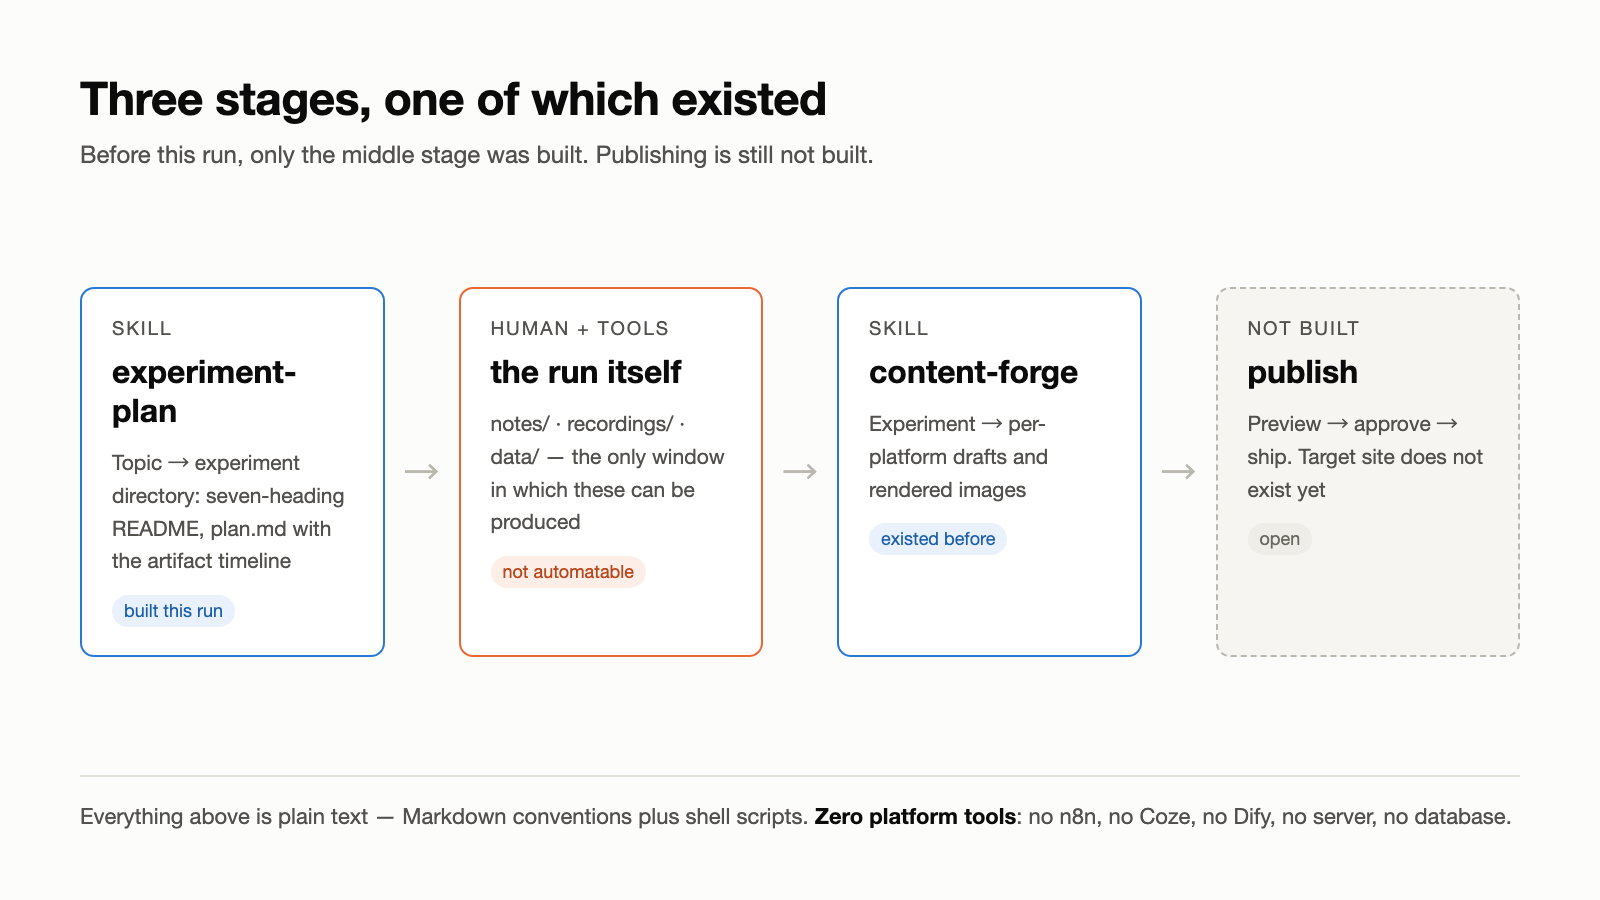
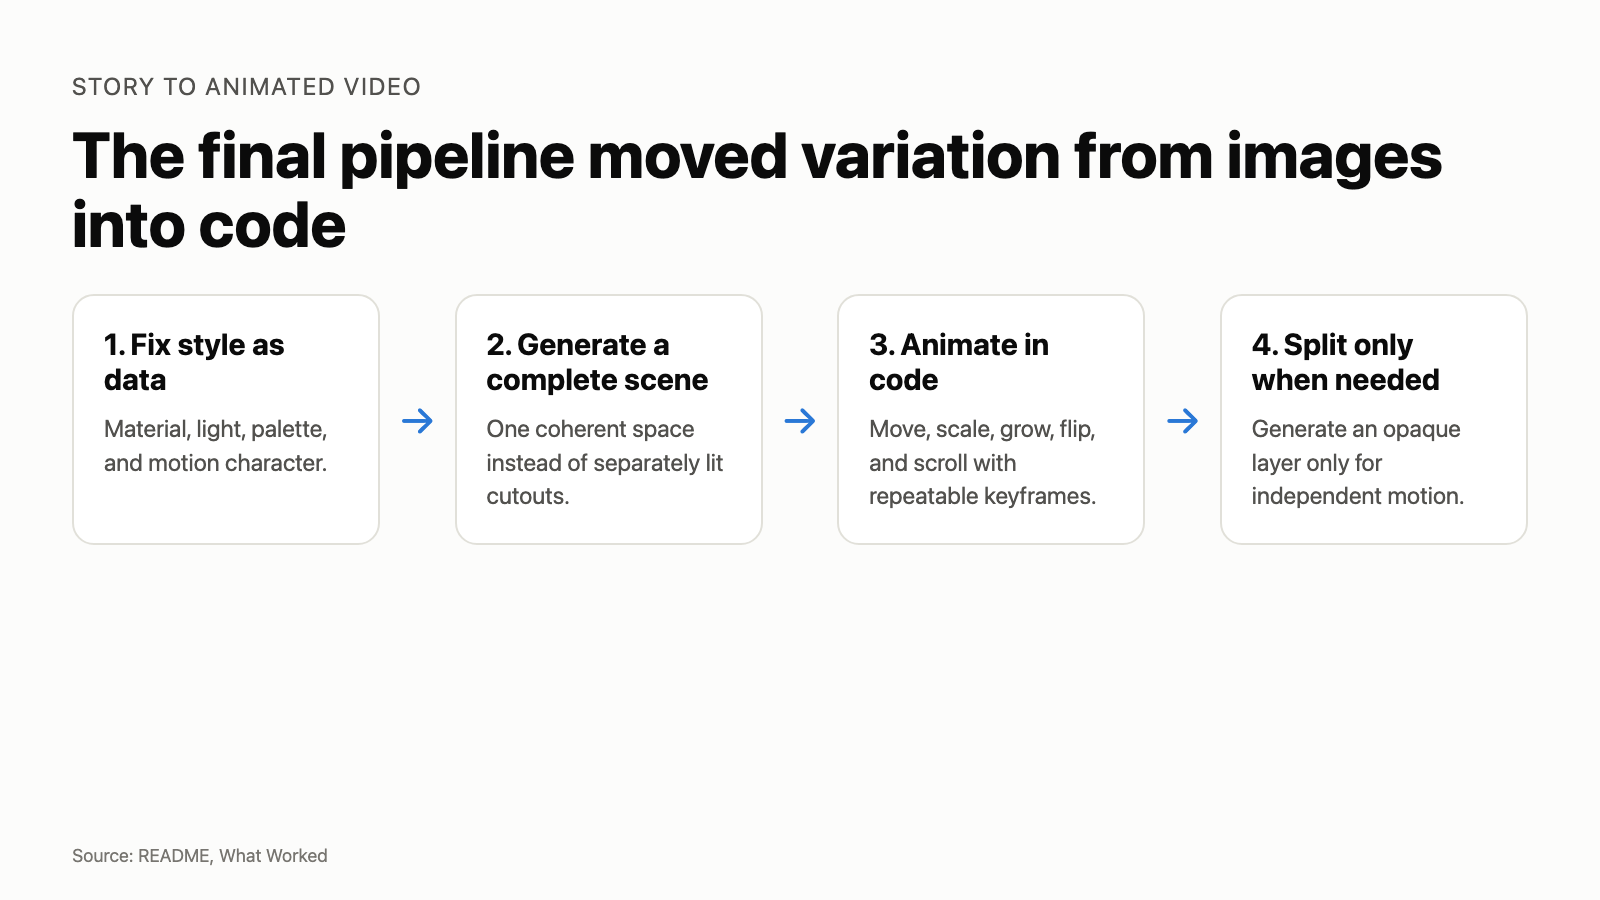
Publish site draft from silicon-leap-lab

diff --git a/src/content/experiments/en/2026-08-story-to-animated-video.md b/src/content/experiments/en/2026-08-story-to-animated-video.md
@@ -1,0 +1,134 @@
+---
+title: "AI Can Make the Video. It Still Cannot Decide What the Video Should Be"
+question: "The previous experiment had already tried to turn text into video. It produced a 4 minute 24 second sequence of screenshots and static cards. The file existed, but the result did not qualify as animation or as something I wanted to publish."
+date: 2026-09-02
+tags: ["AI video generation", "code-generated animation", "human-in-the-loop", "story to video", "Claude Code"]
+description: "One pipeline produced a software-experiment film and an original fairy tale. The final assembly became largely automatic, but 119 discarded images and a week of revision exposed where human judgment still dominates."
+---
+
+This experiment fills the missing step in a content pipeline: turning a written story into illustrated animation. The test was not about editing supplied footage. It asked whether a project or story could still be shown when there was no storyboard, footage, or prepared art.
+
+The previous experiment could turn a completed experiment record into drafts for a site, GitHub, WeChat, Xiaohongshu, and YouTube. Video was the missing channel. Its last video was a 4 minute 24 second sequence of screenshots, cards, and narration. It played, but it read the article aloud, so I did not publish it.
+
+This time I used one final approach to make two films. Film A is an animated account of the earlier experiment about turning completed experiment records into multi-platform content. Film B is the original fairy tale *The Last Light*, which began as text alone. Both films were completed. Film A still went through three rebuilds after it passed its technical checks.
+
+This is for a specific situation, not a claim about everyone: someone has a project or a story worth showing, but no footage, illustration, or editing material. Here, **AI video generation** means generated illustrations assembled and animated in code, not a video-diffusion model. **Human-in-the-loop** means a person still chooses the story, visual direction, and whether a cut should be rejected.
+
+## It passed the checks and still did not tell the story
+
+Film A passed its first checks early. Nothing had obviously broken: it was 186 seconds long, its longest frozen stretch was 4.67 seconds, and the renderer found no QA failures. But when I watched it, I could not say what it was trying to show. The narration described an experiment; the pictures showed turning gears and floating cards. It was a video file, not yet a visual story.
+
+## Three rebuilds changed the route, not the prompt
+
+The first route was simple: **choose a topic → generate background and subject icons → split scenes → assemble a video**. It looked plausible, but three versions produced mismatched light, broken cutouts, and sticker-like composites. The route that finally worked was: **choose a topic → split it into narrative scenes → give each narration segment a picture → fix a visual style → generate complete scenes → add an independent layer only when something must move separately → animate in code → derive timing from the finished narration → assemble and run QA**.
+
+The renderer behind that second route is called `editorial-video`. It turns an approved script and scene plan into shots where code controls when elements move, scale, or change. It is still a work-in-progress production toolchain, not a product this article asks readers to install. A complete scene is its default because it keeps light and materials coherent; a separate transparent-background layer is added only for independent motion. That distinction came directly from the failed first route.
+
+The run took about 19 hours across both films, including a discarded Film B and three Film A rebuilds. That is not 19 hours of rendering. It includes comparing approaches, adapting the pipeline, revising narration and scene beats, generating and rejecting images, rendering, and review. The final API bill was CNY 29.27. The longer cost was deciding what a shot should show and rejecting work that was technically valid but wrong.
+
+![The final pipeline moves from narration to complete scenes, then adds code-controlled motion.](assets/01-pipeline.png)
+*Figure 1. The final pipeline used complete generated scenes and code-controlled movement. Source: this experiment's README and artifacts.*
+
+## The question
+
+The previous experiment had already tried to turn text into video. It produced a 4 minute 24 second sequence of screenshots and static cards. The file existed, but the result did not qualify as animation or as something I wanted to publish.
+
+The test used the same final pipeline for both inputs so it would not merely prove that existing screenshots can carry a software story.
+
+## Setup
+
+| | |
+| --- | --- |
+| Tools | macOS, Claude Code CLI, Opus 5, Node.js 24.6.0, Tencent image generation, Tencent TTS |
+| Tasks | Research approaches, adapt one pipeline, write narration, generate assets, render, review, revise, run QA |
+| Duration | About 19 hours across the full experiment |
+| Format | 1920×1080, TTS narration, no presenter or live footage |
+
+The run first compared stock-footage assemblers, video diffusion projects, and code-based animation. Code composition fit the test because it made movement repeatable and measurable. Both final films used the same illustrated-video pipeline. Film A briefly used a browser-based frame renderer while I rebuilt its visual direction.
+
+In this run, **code-generated animation** means that keyframes calculate visual change after a scene is generated, instead of asking a new image to supply every movement.
+
+## What is available now
+
+The first experiment's [`content-forge` package](https://github.com/siliconleap/silicon-leap-lab/tree/master/.claude/skills/content-forge) is available in this repository for people who want to adapt it. It takes a completed experiment directory and produces reviewable, platform-specific drafts for a site, GitHub, WeChat, Xiaohongshu, and YouTube, including visual source files and validation steps. It does not publish for you: factual confirmation, account access, final layout, and the publishing decision remain human work.
+
+The two finished films are public now. Film A and Film B can be watched through the links at the end of this article.
+
+`editorial-video` is different. It was the evolving production toolchain tested here, and it is not yet offered as a public, ready-to-use package. The experiment improved it, but its installation path, supported use cases, and release boundary still need work. The transferable practices in this article are principles readers can adapt in their own tools, not a downloadable, finished video-production system. Readers can take the findings and the published films from this experiment; they should not treat the renderer as a finished public workflow yet.
+
+## Results
+
+| Metric | Film A | Film B |
+| --- | ---: | ---: |
+| Final duration | 186.46 s | 76.60 s |
+| Longest frozen frame | 4.67 s | 4.00 s |
+| QA failures | 0 | 0 |
+| Generated images used | 5 | 13 |
+| Author score | 4/5 | 3/5 |
+| Time to current version | Nearly one week | Half a day |
+
+Across both films, the image service generated 137 images. Only 18 reached the final cuts. Image generation cost CNY 27.50, voice generation cost CNY 1.77, and total API cost was CNY 29.27. The run recorded 21 failures and 37 human interventions: 25 decisions, 10 actions that could become rules, and 2 manual rework actions. Token use was not recorded.
+
+![137 images were generated and 18 reached the final films.](assets/02-numbers.png)
+*Figure 2. Generated images, retained images, API cost, and human interventions. Source: README Data and data/interventions.md.*
+
+These figures show that the pipeline can produce both films at low API cost and that most generation work was discarded. They do not measure visual quality. Film A passed the duration and frozen-frame checks in versions that I still rejected.
+
+## What worked
+
+The final method reversed the original assembly order. Early versions generated a background and separate subjects, removed their backgrounds, and composited the pieces. The results looked like stickers because lighting and material came from different generations. Semi-transparent objects often could not be separated at all.
+
+The working version fixed style as data, generated a complete scene, and used code for movement. I generated a layer separately only when it needed independent motion. In that case, the prompt specified an opaque object instead of asking a segmentation model to recover it from an existing scene.
+
+Narration became the timing source. The pipeline generated speech for each section, measured the real audio duration, and calculated shot frames from it. Revising one sentence no longer meant updating timing in several files.
+
+Film A also kept three pieces of first-hand evidence as evidence: conflicting configuration files, an independent review score, and validator output. They entered the scene as readable objects rather than being redrawn as generic icons.
+
+## What failed
+
+![A technically valid version could still fail to explain the narration.](assets/03-failure-gap.png)
+*Figure 3. The automated checks passed while story-level problems remained. Source: README What Failed.*
+
+The background-plus-cutout route failed for this class of generated video. Three versions improved prompts, masks, and coordinates without fixing the underlying mismatch. Complete-scene generation produced coherent lighting and space with fewer assets.
+
+Prompt rewriting did not reliably control complex poses in the tested image model. Character identity stayed stable, but pose instructions competed with the repeated identity anchor. The practical fallback was to animate a stable image in code or generate a second image from a precisely specified camera angle.
+
+The first custom frame renderer also treated each frame as an isolated browser job. Rendering took 2.68 seconds per frame while CPU use stayed near 5%. Reusing one Chrome instance cut it to 0.68 seconds per frame. A later comparison showed that Remotion was still much faster for final rendering, so I kept the browser renderer as a probe.
+
+The largest failure was measurement. Duration, QA, and frozen-frame checks could pass while the film still communicated the wrong thing. Film A's first technically valid version did not show the earlier experiment's practice list, and one visual explained a different idea from its narration. The checks measured motion and structure, not meaning.
+
+## The surprising part
+
+I expected the fairy tale to fit illustration naturally and the software story to remain awkward. Film B did finish quickly, but it stayed at my subjective score of 3/5. Film A reached 4/5 over nearly a calendar week of iteration. That calendar span does not contradict the 19 hours of total recorded work across both films.
+
+That extra point is invisible in every automated metric. It came from rejecting scenes, changing the visual system, rewriting prompts around concrete objects, and matching every narration segment to a picture that could carry it. The pipeline automated work after the decision. It did not make the decision.
+
+## Practice ledger
+
+| Practice | Effective | Transfers |
+| --- | --- | --- |
+| Fix style as data, then generate complete scenes | Yes | Yes |
+| Make one narration segment correspond to one visual idea | Yes | Yes |
+| Derive shot timing from final speech audio | Yes | Yes |
+| Put repeatable movement in code keyframes | Yes | Yes |
+| Generate an opaque asset when it must move independently | Yes | Yes |
+| Use real artifacts as objects inside the scene | Yes | Yes |
+| Split every scene into background and subject, then depend on cutouts | No for this class of generated video | No |
+| Control complex poses by repeatedly rewriting prompts | No in this run | Not directly |
+| Use a hand-written frame renderer for the final film | No | No |
+
+## Conclusion and boundary
+
+AI can make low-cost illustrated videos for stories with a clear linear structure and no need for live footage. After narration is final, voice generation, timing, rendering, and assembly can run with little intervention. A person still decides what each scene means, whether the generated image is usable, and whether the cut is worth publishing.
+
+The sample contains two stories. It says nothing about presenter-led video, live software demonstrations, breaking news, or stories that depend on realistic acting. The 180-second target was a recommendation, not a hard pass line. QA passing and a moving picture establish that a video was produced. They do not establish that a good video was produced.
+
+The pipeline can turn a thought-through story into a video. It cannot do that thinking.
+
+---
+
+Raw record: [`experiments/2026-08-story-to-animated-video/`](https://github.com/siliconleap/silicon-leap-lab/tree/master/experiments/2026-08-story-to-animated-video)
+Raw notes: [`notes/`](https://github.com/siliconleap/silicon-leap-lab/tree/master/experiments/2026-08-story-to-animated-video/notes) · [data](https://github.com/siliconleap/silicon-leap-lab/tree/master/experiments/2026-08-story-to-animated-video/data) · [video projects](https://github.com/siliconleap/silicon-leap-lab/tree/master/experiments/2026-08-story-to-animated-video/video)
+Previous failed text-to-video attempt: [`2026-08-markdown-only-content-pipeline`](https://github.com/siliconleap/silicon-leap-lab/tree/master/experiments/2026-08-markdown-only-content-pipeline)
+Film A: [YouTube](https://youtu.be/oOVnuUOSYBY)
+Film B, *The Last Light*: [YouTube](https://youtu.be/aUFPD-lNm3w)

diff --git a/src/content/experiments/zh/2026-08-story-to-animated-video.md b/src/content/experiments/zh/2026-08-story-to-animated-video.md
@@ -1,0 +1,85 @@
+---
+title: "AI 能出片，却还不会做决定"
+question: "给一段文字讲的故事——没有分镜、没有素材、没有录像——AI 能不能自己把它变成一支画面连贯、能发出去的动画视频？"
+date: 2026-09-02
+tags: []
+description: "同一套流水线生成了一支软件实验动画和一则原创童话。配音、计时和合成已经能自动跑，真正耗时的仍是故事取舍、画面判断和一轮轮否掉重来。"
+---
+
+这次实验要补上一次内容流水线缺掉的一环：把一段文字故事做成插画动画。它面向的不是有现成素材的剪辑任务，而是没有分镜、实拍和插画时，手里的项目或故事能不能仍然被讲出来。
+
+上一次，我已经能把一份跑完的实验记录整理成网站、GitHub、公众号、小红书和 YouTube 的内容包。唯独视频没有做成。那支 4 分 24 秒的旧片由截图、文字卡和旁白拼成，能播放，却像在念文章，所以没有发布。
+
+这次我用同一套最终流程做了两支片子：Film A 是“AI 能否把实验记录做成多平台内容”那次软件实验的动画版，里面有截图和硬信息；Film B 是原创童话《最后一盏灯》，从文字开始，没有任何现成画面。结果是，两支片子都做出来了，但 Film A 即使通过技术检查，仍然被我推翻重做了三次。
+
+**技术检查能确认视频存在，不能确认它讲清了故事。**
+
+**旁白定稿后可以自动化，画面要讲什么仍要人决定。**
+
+## 通过检查，却还没讲成故事
+
+Film A 第一次通过检查时，我本来该收工了。它没有坏：186 秒，最长静止画面 4.67 秒，渲染和素材清单都没报错。可我看完后说不清它到底在讲什么。旁白在讲一次内容实验，画面却只是在转动齿轮和漂浮卡片。技术上它已经是一支视频，叙事上却还是一篇文章的配图。
+
+## 三次重做，改的不是提示词
+
+一开始我按最直觉的方式做：先生成背景、人物和道具，再把它们抠出来拼成镜头。它听起来很灵活，人物能单独移动，背景也能复用。
+
+但三版之后，问题没有消失。背景和主体来自不同生成，光照和材质总是差一点，叠在一起像贴纸。半透明物体和浅色物体的边缘又抠不干净。每想增加一点变化，还要再生成一张图。改提示词、改遮罩、改坐标，都是在修一条已经走错的路。
+
+![从拆图层拼装改为整场景生成](assets/01-route-change.png)
+*图 1：三次返工后，素材策略从“先拆再拼”改成“先生成完整场景，再按需补图层”。*
+
+第四版把顺序倒了过来。先确定配色、材质、光照和运动习惯，再按叙事场景生成完整画面。画面里的位移、缩放、生长和滚动交给代码。只有某个对象确实需要独立运动，才额外生成背景透明、主体不透的图层，不从完整画面里硬抠边缘。
+
+片 A 最后有 14 个镜头，却只用了 5 张生成图。它不再靠不断换图制造变化，而是让同一张图里的东西动起来。
+
+## 通过 QA 以后，问题才露出来
+
+两支片子都通过了基础交付检查：能正常渲染，画面不会连续静止超过 8 秒。Film A 最终 186.46 秒，Film B 76.60 秒。180 秒只是一个推荐长度，不是合格线。
+
+这些检查只回答“片子有没有做出来”。它们没有拦住 Film A 的第一版，因为它漏掉了上一个实验最重要的内容：哪些做法有效，哪些做法无效。有一个镜头的截图和旁白甚至在讲两件不同的事。
+
+我后来加了一条很笨、但有用的要求：每段旁白旁边必须写清这个镜头要给观众看什么。写不出来，就先别生成图。片 A 后来的重做，不是为了让图更精致，而是为了让画面终于能接住旁白。
+
+![137 张生成图中只有 18 张进入成片](assets/02-numbers.png)
+*图 2：两支片子生成了 137 张图，最终只留下 18 张。被丢掉的多数不是坏图，而是不再服务故事的图。*
+
+接口账单很小，图像和语音一共 29.27 元。真正贵的是试错。两支片子合计用了约 19 小时，里面包括一版作废的 Film B 和 Film A 的三轮重做。调研路线、补齐流水线、写和改旁白与分镜、生成并淘汰素材、渲染、审片，都算在里面。
+
+记录里有 21 次失败，指生成、抠图、渲染或校验没有按预期完成。还有 37 次人工介入，里面有故事和视觉上的决定，也有能沉淀为规则的要求。数字并不说明人做得不够少，它说明最难的部分还没有被自动化。
+
+## 自动化从决定之后开始
+
+旁白一旦定下来，后面的链路反而很顺。先合成语音，量出每段的真实时长，再把它换算成镜头帧数。改一句旁白，Film A 的 14 个镜头会一起更新时长，不用手工对时间。
+
+这就是文中说的“代码合成动画”：生成完画面后，代码负责它什么时候移动、放大或切换，不必为了每一个动作重新生成图片。
+
+![自动化与人工判断的边界](assets/03-boundary.png)
+*图 3：旁白定稿后，配音、计时、渲染和合成可以串起来跑；故事取舍、镜头设计和审片仍要人做。*
+
+作者给 Film B 的完成度和观感打了 3/5，半天做到当前版本。Film A 到 4/5，日历上跨了接近一周。这里的一周是反复打磨的跨度，不是额外 19 小时。那一分没有藏在任何 QA 指标里，只藏在一次次“这个镜头到底在说什么”的重做里。
+
+## 这次留下的做法
+
+| 实践 | 是否有效 | 是否可复制 |
+| --- | --- | --- |
+| 先生成完整场景，再按需补独立图层 | 有效 | 可复制为方法原则 |
+| 一段旁白对应一个能说清的镜头 | 有效 | 可复制为方法原则 |
+| 用真实配音回填镜头时长 | 有效 | 可复制为方法原则 |
+| 先拆背景和主体，再依赖抠图拼装 | 在本次路线中无效 | 不建议复制 |
+
+## 现在能带走什么
+
+两支成片已经公开：Film A 和 Film B 的链接在文末。
+
+上一次实验留下的 [`content-forge`](https://github.com/siliconleap/silicon-leap-lab/tree/master/.claude/skills/content-forge) 也已经在仓库里。它不制作动画，它做的是把完成的实验整理成网站、GitHub、公众号、小红书和 YouTube 的可审核草稿，并生成配图源文件和校验结果。事实确认、账号权限、最终排版和发布仍要人完成。
+
+这次用于制作影片的 `editorial-video` 则还在改进。它把已经确认的旁白和场景计划做成有时间轴、由代码控制运动的镜头，但目前还不是一个可以直接安装、照着跑的公开成品。文中“可复制”的，是先定画面、让旁白和镜头一一对应、按真实配音回填时长、按需拆图层这些方法，不是一套现成的视频生产线。
+
+这次只跑了两个线性故事，都不需要真人、实拍或复杂表演。它能说明 AI 可以把想清楚的故事做成低成本插画视频，不能说明它会自动替人想清楚故事，更不能代表所有视频都适合这条路。
+
+---
+
+完整记录：[实验目录](https://github.com/siliconleap/silicon-leap-lab/tree/master/experiments/2026-08-story-to-animated-video)
+Film A：[YouTube](https://youtu.be/oOVnuUOSYBY)
+Film B《最后一盏灯》：[YouTube](https://youtu.be/aUFPD-lNm3w)
